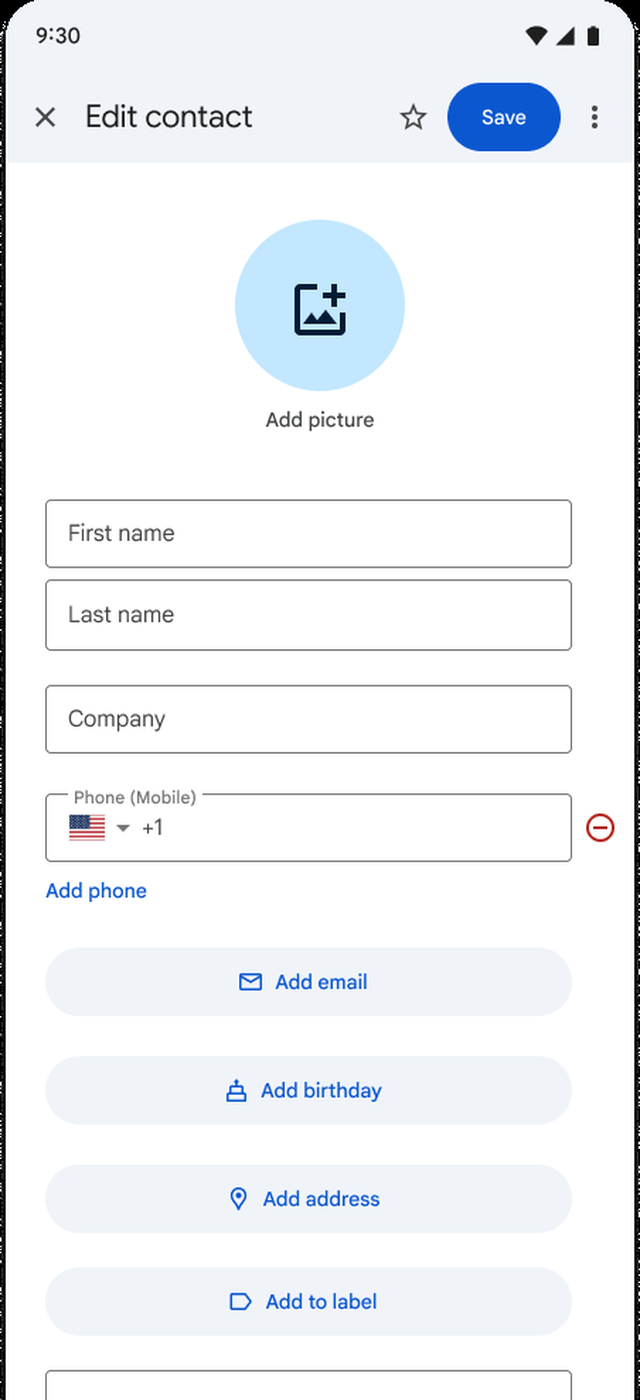
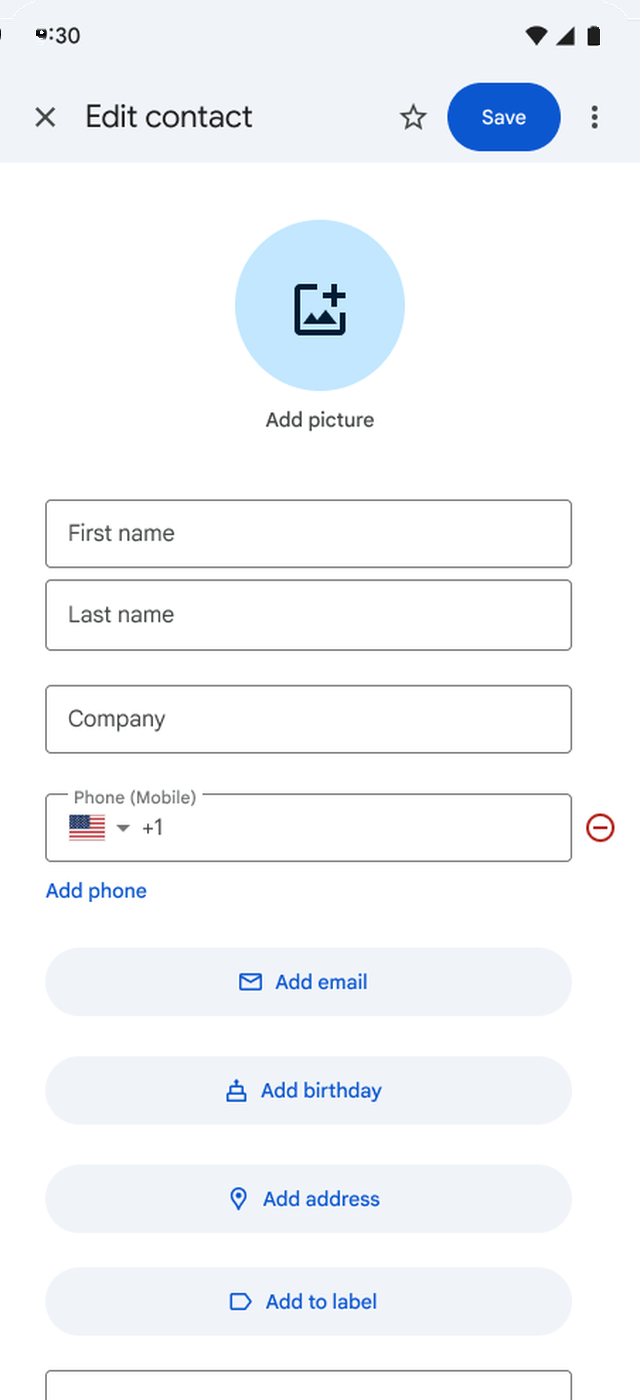
Remove black borders on Editor mocks, add shadow to ShareKit Maps dialogs, and condense Learnings (v81)

Changed region(s): [[0.0, 0.0, 0.0625, 1.0], [0.9688, 0.0, 1.0, 1.0]]

diff --git a/google-contacts.html b/google-contacts.html
@@ -14,7 +14,7 @@
   <link href="https://api.fontshare.com/v2/css?f[]=tanker@400&display=swap" rel="stylesheet">
   <link href="https://fonts.googleapis.com/css2?family=Big+Shoulders+Display:wght@600;700;800;900&family=Caveat:wght@500;600;700&family=Fraunces:ital,opsz,wght@0,9..144,100..900;1,9..144,100..900&family=Geist+Mono:wght@400;500;600&family=Geist:wght@300;400;500;600;700&family=Inter:wght@300;400;500;600&display=swap" rel="stylesheet">
 
-  <link rel="stylesheet" href="style.css?v=80">
+  <link rel="stylesheet" href="style.css?v=81">
 </head>
 <body data-theme="dark" id="top" class="case-study-body is-locked">
   <script>if(sessionStorage.getItem('ian-case-auth')==='uxian12'){document.body.classList.remove('is-locked');}</script>
@@ -229,7 +229,7 @@
           </div>
           <div style="display: flex; justify-content: center;">
             <div class="device-frame framer-reveal" style="max-width: 195px;">
-              <img src="assets/mocks/ce_hyp_1.png" alt="Hypothesis 1" loading="lazy">
+              <img src="assets/mocks/ce_hyp_1.png?v=3" alt="Hypothesis 1" loading="lazy">
             </div>
           </div>
         </div>
@@ -243,7 +243,7 @@
           </div>
           <div style="display: flex; justify-content: center;">
             <div class="device-frame framer-reveal" style="max-width: 195px;">
-              <img src="assets/mocks/ce_hyp_2.png" alt="Hypothesis 2" loading="lazy">
+              <img src="assets/mocks/ce_hyp_2.png?v=3" alt="Hypothesis 2" loading="lazy">
             </div>
           </div>
         </div>
@@ -427,7 +427,7 @@
           <div class="mock-col">
             <p class="case-caption">A</p>
             <div class="device-frame">
-              <img src="assets/mocks/ce_exp_a.png?v=2" alt="Option A" loading="lazy">
+              <img src="assets/mocks/ce_exp_a.png?v=3" alt="Option A" loading="lazy">
             </div>
           </div>
           <div class="mock-col">
@@ -587,30 +587,19 @@
     <section class="case-section alt-bg framer-reveal">
       <div class="case-container">
         <p class="case-eyebrow">REFLECTION</p>
-        <h2 class="case-h2">What This Project Taught Me</h2>
+        <h2 class="case-h2">Learnings</h2>
 
-        <div class="case-grid-2">
-          <div class="principle-card framer-reveal">
-            <p class="case-eyebrow">01 · STRATEGY</p>
-            <h4 class="principle-title">Friction beats motivation every time</h4>
-            <p class="principle-desc">The A/B test was a clean proof point: communicating value cannot overcome a high-friction interface. When ease and comprehension compete, ease wins. This shaped every subsequent design decision — if something adds a step, it needs a strong justification.</p>
-          </div>
-          <div class="principle-card framer-reveal">
-            <p class="case-eyebrow">02 · INFLUENCE</p>
-            <h4 class="principle-title">The PM disagreement made the work better</h4>
-            <p class="principle-desc">Rather than deferring to the PM's hypothesis or pushing mine unilaterally, the two-track plan let the data decide. That collaborative tension produced a more rigorous outcome than either perspective alone and built shared ownership of the final direction.</p>
-          </div>
-          <div class="principle-card framer-reveal">
-            <p class="case-eyebrow">03 · SYSTEMS</p>
-            <h4 class="principle-title">Designing for adoptability compounds impact</h4>
-            <p class="principle-desc">The decision to invest in a modular, scalable component architecture, rather than solving just for Contacts, meant the work was later adopted by Google Wallet and Magic Cue. Thinking about who else might use your system at the start isn't scope creep, it's leverage.</p>
-          </div>
-          <div class="principle-card framer-reveal">
-            <p class="case-eyebrow">04 · CRAFT</p>
-            <h4 class="principle-title">Removal is design too</h4>
-            <p class="principle-desc">Deprecating fields with sub-0.01% daily usage was one of the highest-impact decisions in the project and one of the hardest to make cross-functionally. The discipline to cut, backed by data, was as important as the new patterns we introduced.</p>
-          </div>
-        </div>
+        <h4 class="case-h4" style="margin-top: 20px;">Friction beats motivation every time</h4>
+        <p class="case-body">The A/B test proved that communicating value cannot overcome a high-friction interface. When ease and comprehension compete, ease wins — every added step needs a strong justification.</p>
+
+        <h4 class="case-h4">The PM disagreement made the work better</h4>
+        <p class="case-body">Instead of deferring to the PM's hypothesis or pushing mine unilaterally, our two-track plan let the data decide and built shared ownership of the final direction.</p>
+
+        <h4 class="case-h4">Designing for adoptability compounds impact</h4>
+        <p class="case-body">Investing in a modular, scalable component architecture meant our editor patterns were later adopted by Google Wallet and Magic Cue. Designing for future adopters isn't scope creep — it's leverage.</p>
+
+        <h4 class="case-h4">Removal is design too</h4>
+        <p class="case-body">Deprecating fields with sub-0.01% daily usage was as impactful as the new patterns we introduced. Knowing what to cut — backed by data — is core to simplifying complex workflows.</p>
 
         <p class="case-eyebrow" style="margin-top: 64px;">RECOGNITION & PRESS</p>
         <h2 class="case-h2">Praises from the Media</h2>
@@ -643,6 +632,6 @@
   </footer>
 
 
-  <script src="script.js?v=80"></script>
+  <script src="script.js?v=81"></script>
 </body>
 </html>

diff --git a/sharing-design-system.html b/sharing-design-system.html
@@ -14,7 +14,7 @@
   <link href="https://api.fontshare.com/v2/css?f[]=tanker@400&display=swap" rel="stylesheet">
   <link href="https://fonts.googleapis.com/css2?family=Big+Shoulders+Display:wght@600;700;800;900&family=Caveat:wght@500;600;700&family=Fraunces:ital,opsz,wght@0,9..144,100..900;1,9..144,100..900&family=Geist+Mono:wght@400;500;600&family=Geist:wght@300;400;500;600;700&family=Inter:wght@300;400;500;600&display=swap" rel="stylesheet">
 
-  <link rel="stylesheet" href="style.css?v=80">
+  <link rel="stylesheet" href="style.css?v=81">
 </head>
 <body data-theme="dark" id="top" class="case-study-body is-locked">
   <script>if(sessionStorage.getItem('ian-case-auth')==='uxian12'){document.body.classList.remove('is-locked');}</script>
@@ -427,13 +427,13 @@
         <div class="case-grid-2 framer-reveal" style="align-items: start; gap: 28px; margin-top: 20px;">
           <div>
             <p class="case-caption">BEFORE</p>
-            <div class="frameless-mock" style="margin-top: 8px;">
+            <div class="frameless-mock is-elevated-dialog" style="margin-top: 8px;">
               <img src="assets/mocks/sk_maps_before.png?v=15" alt="Google Maps Share Web Dialog — Before" loading="lazy">
             </div>
           </div>
           <div>
             <p class="case-caption" style="color: var(--accent);">AFTER</p>
-            <div class="frameless-mock" style="margin-top: 8px;">
+            <div class="frameless-mock is-elevated-dialog" style="margin-top: 8px;">
               <img src="assets/mocks/sk_maps_after.png?v=15" alt="Google Maps ShareKit Web Dialog — After" loading="lazy">
             </div>
           </div>
@@ -629,10 +629,10 @@
         <h2 class="case-h2">Learnings</h2>
 
         <h4 class="case-h4" style="margin-top: 20px;">Design for a moving target</h4>
-        <p class="case-body">Get comfortable with discomfort. In the AI era, the thing you're systematizing changes while you systematize it — for example, Gemini reprioritized before our feature launched. What I'd do differently: measure success by adoption and evidence rather than whether the flagship partner shipped, and develop a clear governance and approval process that allows first-party apps to move fast. The hardest part wasn't designing the system; it was trusting the research we did and the other first-party apps' adoption when the biggest test never launched.</p>
+        <p class="case-body">In the AI era, products shift while you systematize them — Gemini reprioritized before our feature launched. Measure a system's success by cross-product adoption and research evidence rather than any single partner launch.</p>
 
         <h4 class="case-h4">Bend only on evidence</h4>
-        <p class="case-body">Know when to compromise. The Extended tier was a compromise I'm glad we made, but only because the research earned it. We bent because users showed the turnkey and configured designs failed, not because a partner asked loudly. What I'd do differently: define the bend criteria before the partner conversation, not during it. Compromise decided in advance is a principle, but when it's negotiated in the room, it becomes a precedent. NotebookLM and Google Maps taught the flip side: turnkey worked because we held the line on simplicity. Because of Gemini, we now have a set of principles to evaluate against partners' requests.</p>
+        <p class="case-body">The Extended tier worked because user research proved turnkey wasn't enough — not because a partner asked loudly. Define your bend criteria upfront: compromise backed by evidence becomes a system principle, whereas compromise negotiated in the room becomes a precedent.</p>
       </div>
     </section>
 
@@ -659,6 +659,6 @@
   </footer>
 
 
-  <script src="script.js?v=80"></script>
+  <script src="script.js?v=81"></script>
 </body>
 </html>

diff --git a/sonicare.html b/sonicare.html
@@ -14,7 +14,7 @@
   <link href="https://api.fontshare.com/v2/css?f[]=tanker@400&display=swap" rel="stylesheet">
   <link href="https://fonts.googleapis.com/css2?family=Big+Shoulders+Display:wght@600;700;800;900&family=Caveat:wght@500;600;700&family=Fraunces:ital,opsz,wght@0,9..144,100..900;1,9..144,100..900&family=Geist+Mono:wght@400;500;600&family=Geist:wght@300;400;500;600;700&family=Inter:wght@300;400;500;600&display=swap" rel="stylesheet">
 
-  <link rel="stylesheet" href="style.css?v=80">
+  <link rel="stylesheet" href="style.css?v=81">
 </head>
 <body data-theme="dark" id="top" class="case-study-body is-locked">
   <script>if(sessionStorage.getItem('ian-case-auth')==='uxian12'){document.body.classList.remove('is-locked');}</script>
@@ -377,6 +377,6 @@
   </footer>
 
 
-  <script src="script.js?v=80"></script>
+  <script src="script.js?v=81"></script>
 </body>
 </html>

diff --git a/ai-in-contacts.html b/ai-in-contacts.html
@@ -14,7 +14,7 @@
   <link href="https://api.fontshare.com/v2/css?f[]=tanker@400&display=swap" rel="stylesheet">
   <link href="https://fonts.googleapis.com/css2?family=Big+Shoulders+Display:wght@700;800&family=Caveat:wght@500;600;700&family=Fraunces:ital,opsz,wght@0,9..144,100..900;1,9..144,100..900&family=Geist+Mono:wght@400;500;600&family=Geist:wght@300;400;500;600;700&family=Inter:wght@300;400;500;600&display=swap" rel="stylesheet">
 
-  <link rel="stylesheet" href="style.css?v=80">
+  <link rel="stylesheet" href="style.css?v=81">
 </head>
 <body data-theme="dark" id="top" class="case-study-body is-locked">
   <script>if(sessionStorage.getItem('ian-case-auth')==='uxian12'){document.body.classList.remove('is-locked');}</script>
@@ -763,6 +763,6 @@
   </footer>
 
 
-  <script src="script.js?v=80"></script>
+  <script src="script.js?v=81"></script>
 </body>
 </html>

diff --git a/style.css b/style.css
@@ -4341,6 +4341,19 @@ body[data-theme="light"] .desktop-window-frame {
   background: transparent;
 }
 
+.frameless-mock.is-elevated-dialog img {
+  border-radius: 22px;
+  filter:
+    drop-shadow(0 20px 44px rgba(0, 0, 0, 0.45))
+    drop-shadow(0 6px 16px rgba(0, 0, 0, 0.24));
+}
+
+body[data-theme="light"] .frameless-mock.is-elevated-dialog img {
+  filter:
+    drop-shadow(0 20px 42px rgba(14, 31, 47, 0.22))
+    drop-shadow(0 6px 16px rgba(14, 31, 47, 0.12));
+}
+
 /* Single-Border Mock (Strictly 1 border, zero nested container — used for ShareKit Design Principles slides) */
 .single-border-mock {
   width: 100%;

diff --git a/index.html b/index.html
@@ -20,7 +20,7 @@
   <link rel="preload" as="image" href="assets/avatar_var_5_green_laptop.gif?v=26" fetchpriority="high">
   <link rel="preload" as="image" href="assets/avatar_var_3_navy_victory.gif?v=26" fetchpriority="high">
   <link rel="preload" as="image" href="assets/avatar_var_2_orange_funny.gif?v=26" fetchpriority="high">
-  <link rel="stylesheet" href="style.css?v=80">
+  <link rel="stylesheet" href="style.css?v=81">
 </head>
 <body data-theme="dark">
 
@@ -499,6 +499,6 @@
     </div>
   </footer>
 
-  <script src="script.js?v=80"></script>
+  <script src="script.js?v=81"></script>
 </body>
 </html>
